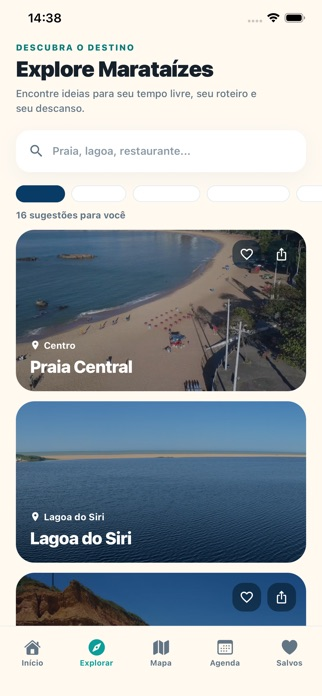
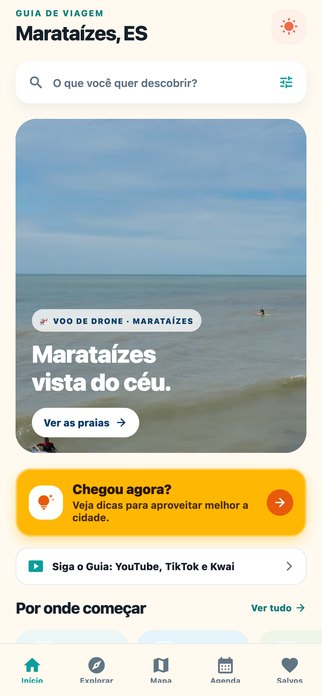
Guia: prévia do WhatsApp e telas do site com as capturas certas da Praia Central (as antigas eram Vila Velha)

diff --git a/guia/testar.html b/guia/testar.html
@@ -9,8 +9,8 @@
 <meta name="description" content="O app Guia Marataízes está chegando no Google Play. Entre no teste em 2 passos e leve praias, roteiros e onde comer no bolso.">
 <meta property="og:title" content="Guia Marataízes no Android">
 <meta property="og:description" content="2 passos, 2 minutos. Praias, roteiros, onde comer e eventos de Marataízes, offline.">
-<meta property="og:image" content="https://radiobitcoin.org/guia/tela1.jpg">
-<meta name="twitter:card" content="summary_large_image">
+<meta property="og:image" content="https://radiobitcoin.org/guia/og_android_v2.jpg">
+<meta name="twitter:card" content="summary_large_image"><meta property="og:image:width" content="1200"><meta property="og:image:height" content="630">
 <style>
   :root{--sol:#f7c85a;--mar:#0e7490;--bg:#0b1b26;--card:rgba(255,255,255,.06);--stroke:rgba(247,200,90,.3)}
   *{margin:0;padding:0;box-sizing:border-box}
